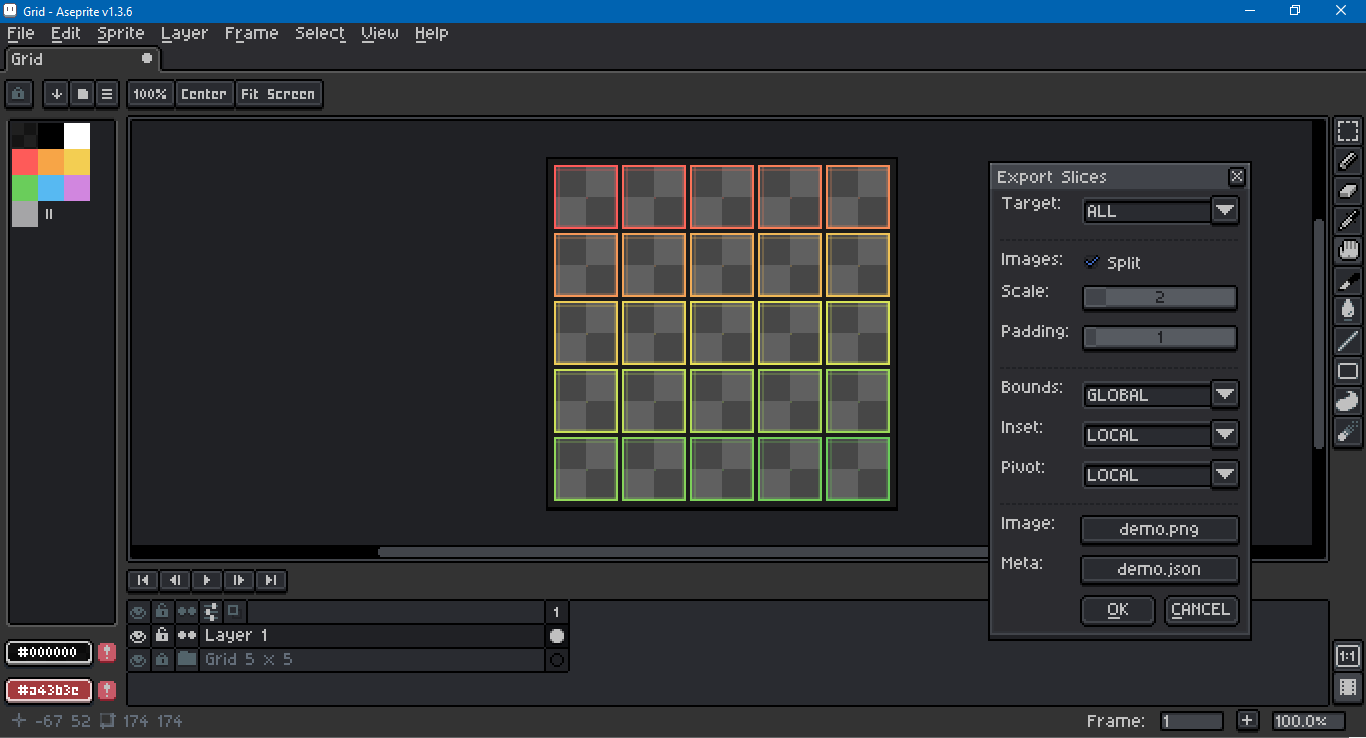
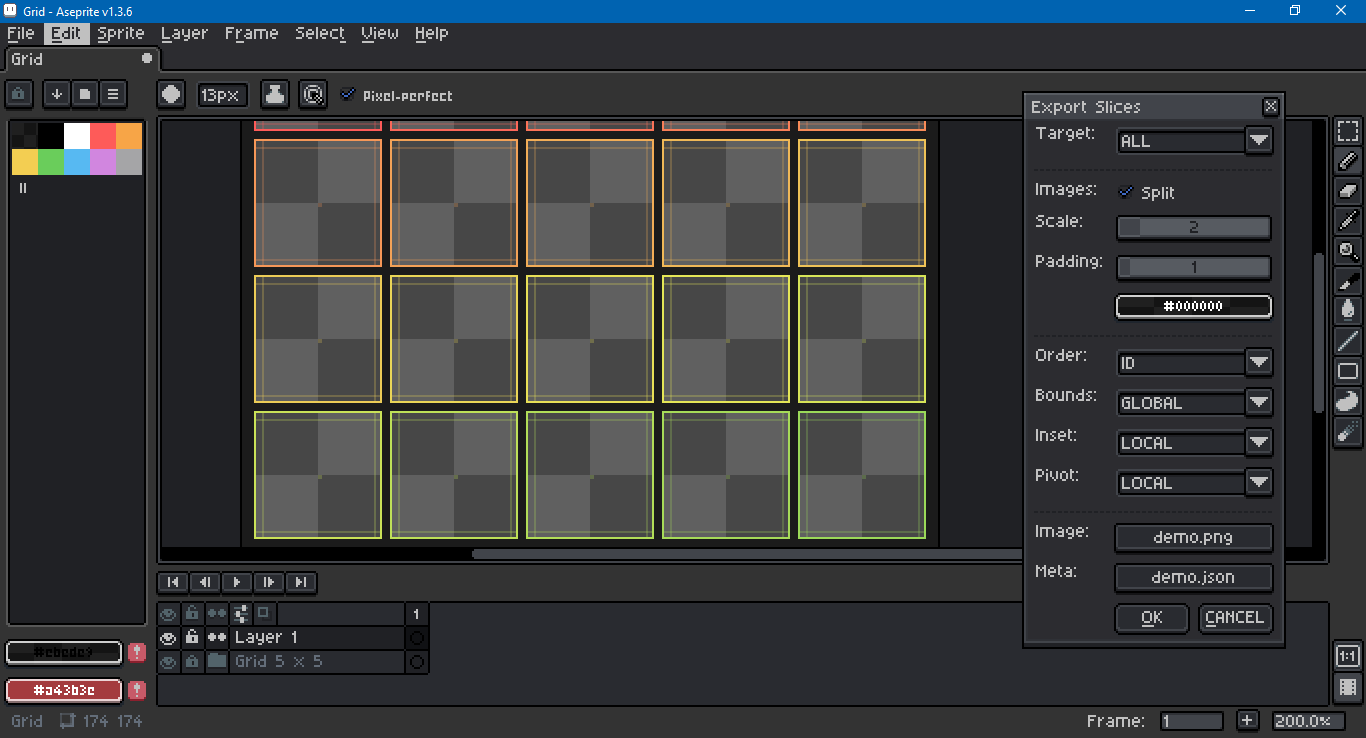
Update Readme. Update export screen cap. Export slices include pad color in JSON output.

diff --git a/README.md b/README.md
@@ -8,7 +8,7 @@ This is a tool to facilitate editing [9-slices](https://en.wikipedia.org/wiki/9-
 
 If you are creating a custom [theme](https://aseprite.org/docs/extensions/themes/), and work with the slices that link `theme.xml` and `sheet.png`, beware of using this script's features.
 
-If you are creating a sprite with many frames, and need slices to record frame references, this script will not help you. A slice's frame data appears in a JSON export, but cannot be accessed via Lua. New slices created by this script are created on frame 1. A `fromFrame` and `toFrame` are assigned to a new slice's `properties`. For more, see these forum threads: [1](https://community.aseprite.org/t/how-do-i-figure-out-which-frame-a-slice-is-on), [2](https://community.aseprite.org/t/problem-with-slices-when-adding-removing-frames), [3](https://community.aseprite.org/t/slices-are-buggy-when-edited-at-different-frames), [4](https://community.aseprite.org/t/is-there-a-way-to-slice-single-frames).
+If you are creating a sprite with many frames, and need slices to record frame references, this script will not help you. A slice's frame data appears in Aseprite's JSON export, but cannot be accessed via Lua script. New slices created by this script are created on frame 1. A `fromFrame` and `toFrame` are assigned to a new slice's `properties`. For more, see these forum threads: [1](https://community.aseprite.org/t/how-do-i-figure-out-which-frame-a-slice-is-on), [2](https://community.aseprite.org/t/problem-with-slices-when-adding-removing-frames), [3](https://community.aseprite.org/t/slices-are-buggy-when-edited-at-different-frames), [4](https://community.aseprite.org/t/is-there-a-way-to-slice-single-frames).
 
 This script was created with Aseprite version 1.3.5 on Windows 10. In the screen shot above, the theme is default dark with 100% UI scaling and 200% screen scaling. Due to the size of the dialog, a theme with 100% scaling is recommended.
 
@@ -16,11 +16,11 @@ If you would like to report a problem with the script, please see this repo's Is
 
 ## Download
 
-To download this script, click on the green Code button above, then select Download Zip. You can also click on the `editSlices.lua` file. Beware that some browsers will append a `.txt` file format extension to script files on download. Aseprite will not recognize the script until this is removed and the original `.lua` extension is used. There can also be issues with copying and pasting. Be sure to click on the Raw file button; do not copy the formatted code.
+To download this script, click on the green Code button above, then select Download Zip. You can also click on the `editSlices.lua` and/or `exportSlices.lua` file. Beware that some browsers will append a `.txt` file format extension to script files on download. Aseprite will not recognize the script until this is removed and the original `.lua` extension is used. There can also be issues with copying and pasting. Be sure to click on the Raw file button; do not copy the formatted code.
 
 ## Installation
 
-To install this script, open Aseprite. In the menu bar, go to `File > Scripts > Open Scripts Folder`. Move the Lua script into the folder that opens. Return to Aseprite; go to `File > Scripts > Rescan Scripts Folder` (the default hotkey is `F5`). The script should now be listed under `File > Scripts`. Select `editSlices.lua` to launch the dialog.
+To install this script, open Aseprite. In the menu bar, go to `File > Scripts > Open Scripts Folder`. Move the Lua script(s) into the folder that opens. Return to Aseprite; go to `File > Scripts > Rescan Scripts Folder` (the default hotkey is `F5`). The script(s) should now be listed under `File > Scripts`. Select `editSlices.lua` or `exportSlices.lua` to launch a dialog.
 
 If an error message in Aseprite's console appears, check if the script folder is on a file path that includes characters beyond [UTF-8](https://en.wikipedia.org/wiki/UTF-8), such as 'é' (e acute) or 'ö' (o umlaut).
 
@@ -41,13 +41,13 @@ The features of this dialog, per each button, are:
 - **Frame**: Creates multiple slices from the cels in the active frame.
 - **Mask**: Creates a slice from a selection mask.
 - **Slice**: Creates a selection mask from a slice.
-- **W**: Nudges the selected slices up toward y = 0.
-- **A**: Nudges the selected slices left toward x = 0.
-- **S**: Nudges the selected slices down toward y = height - 1.
-- **D**: Nudges the selected slices right toward x = width - 1.
+- **W**: Nudges an element of the selected slices up toward y = 0.
+- **A**: Nudges an element of the selected slices left toward x = 0.
+- **S**: Nudges an element of the selected slices down toward y = height - 1.
+- **D**: Nudges an element of the selected slices right toward x = width - 1.
 - **Resize**: Sets slices' bounds to the given size, maintaining their pivots. Insets are scaled by ratio of new size to old.
 - **Inset**: Sets slices' insets to a pixel increment from its bounds.
-- **Pivot**: Sets slices' pivots according to 9 presets (top left, bottom right, center, etc.).
+- **Pivot**: Sets slices' pivots according to 9 presets (top-left, bottom-right, center, etc.).
 - **Rename**: Sets a slice's name to the provided string. If multiple slices are selected, appends a number after the string.
 - **Color**: Recolors the selected slices per a mix between two given colors. Color mixing is done in HSL unless one of the colors is gray. When HSL is used, the hue is mixed counter clockwise.
 - **Swap**: Swaps the origin and destination color.
@@ -57,7 +57,7 @@ Both resize and nudge try to avoid creating a slice that is outside the sprite's
 
 All nudge buttons try to match the slice's top-left corner to the slice grid when snap to grid is enabled.
 
-To nudge a slice inset or pivot, check the appropriate boxes beneath the WASD keys. Pivots may go outside the slice's bounds; insets may not.
+To nudge a slice inset or pivot, check the appropriate boxe beneath the WASD keys. Pivots may go outside the slice's bounds; insets may not.
 
 Order-sensitive functions, like rename and color mix, sort slices according to the y coordinate, followed by the x, followed by the slice name. The frame to slice conversion function sorts by a layer's local stack index, then by name.
 
@@ -117,6 +117,12 @@ A custom export dialog exports slice data to a JSON file. A sample of the format
     ],
     "apiVersion": 27,
     "frameBaseIndex": 1,
+    "padColor": {
+        "r": 0,
+        "g": 0,
+        "b": 0,
+        "a": 0
+    },
     "padding": 1,
     "scale": 2,
     "space": {
@@ -134,10 +140,10 @@ A custom export dialog exports slice data to a JSON file. A sample of the format
 }
 ```
 
-Aseprite does not assign a unique identifier to slices. This script attempts to provide one for each slice in its `properties` field if not already present. Slices are sorted according to this identifier. The file path includes the identifier in hexadecimal. In the example above, `1183714612564447149` may be used to match a slice to a file, where `106d662b2557cfad` is its hexadecimal representation.
+Aseprite does not assign a unique identifier to slices. This script provides a random 64-bit integer for each slice in its `properties` field if not already present. The file path includes the identifier in hexadecimal. In the example above, `1183714612564447149` may be used to match a slice to a file, where `106d662b2557cfad` is its hexadecimal representation.
 
 Slice names cannot always be relied on as unique identifiers. Aseprite does no validation on strings provided to names. A name can be empty, can be a duplicate of another slice's name, or can include characters that would invalidate a file path were it included. This script performs no extra validation measures on slice names.
 
 When present, custom user data is enclosed in quotation marks, `"`. No attempt is made to escape characters or otherwise validate the data.
 
-As mentioned at the top, a slice may also have `fromFrame` and `toFrame` fields in its properties if it was created with the edit slices dialog. All frame indices begin at zero, not one. The sprite's `frameBaseIndex` is given at the bottom. As mentioned before, the Lua scripting API does not have access to internal slice frame data, so the data cannot be included.
+As mentioned at the top, a slice may also have `fromFrame` and `toFrame` fields in its properties if it was created with `editSlices.lua`. All frame indices begin at zero, not one. The sprite's `frameBaseIndex` is given at the bottom. As mentioned before, the Lua scripting API does not have access to internal slice frame data, so the data cannot be included.
